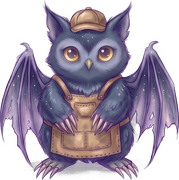
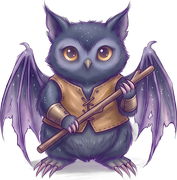
Build 299: Сумрачный совёнок redrawn as a guard (her «Почему одинаковые наряды» -> own line per creature, «Да»): leather vest + practice stick, quilted jacket + round shield, chain mail + horned helmet, crimson guard cloak + spear; front and back replace the old uniform-like outfits; TIER_V cache ve

diff --git a/js/game.js b/js/game.js
@@ -2,9 +2,9 @@
 import {
   OFFLINE_CAP_SEC, MAX_DESKS, MAX_ITEM_LEVEL, MAX_TEACHER_LEVEL, MAX_TIME_LEVEL,
   CLASSES, SPECIES, NAMES, MISSIONS, WORLDS, WORLD, META,
-} from './data.js?v=298';
-import { EMOJI_RE, emojiImage, preloadEmoji, watchEmoji, emojiHtml } from './emoji.js?v=298';
-import { initMinigame } from './minigame.js?v=298';
+} from './data.js?v=299';
+import { EMOJI_RE, emojiImage, preloadEmoji, watchEmoji, emojiHtml } from './emoji.js?v=299';
+import { initMinigame } from './minigame.js?v=299';
 // mini-game «Зельеварка» (match-3, js/minigame.js): a pill on the main screen, its own overlay; the school keeps living under it
 const MG = initMinigame({ state: () => S, earn: (n) => earn(n), save: () => save(), toast: (t) => toast(t), fmt: (n) => fmt(n), emojiHtml, emojiImage,
   audioOut: () => { if (!sfxOn() || document.hidden) return null; const c = audio(); return c && c.state === 'running' ? { c, out: AOUT } : null; },
@@ -15,7 +15,7 @@ const MG = initMinigame({ state: () => S, earn: (n) => earn(n), save: () => save
 const SAVE_KEY = WORLD === 1 ? 'magicschool.save.v2' : 'magicschool.save.v2.w' + WORLD;   // every world keeps its own save
 const saveKeyOf = (w) => (w === 1 ? 'magicschool.save.v2' : 'magicschool.save.v2.w' + w);
 const VERSION = '0.9';
-const BUILD = 298;   // keep equal to the ?v= number in index.html
+const BUILD = 299;   // keep equal to the ?v= number in index.html
 const $ = (s, r = document) => r.querySelector(s);
 const rnd = (a) => a[Math.floor(Math.random() * a.length)];
 
@@ -2178,7 +2178,8 @@ for (const f of STAFF_OTHER) { const im = new Image(); im.src = `assets/staff/${
 const staffSprite = (f) => WORLD <= 2 && STAFF_OTHER.includes(f) && sprites['staff_' + f]?.naturalWidth;
 for (const [k, f] of Object.entries(WORLD === 2 ? STAFF_ART_W2 : STAFF_ART)) { const im = new Image(); im.src = `assets/staff/${f}.png?v=${STAFF_V[f] ? 10 + STAFF_V[f] : 3}`; sprites['staff_' + k] = im; }
 if (WORLD === 1) for (const sp of SPECIES) for (let e = 0; e < 4; e++) for (const v of ['', '_back']) { const im = new Image(); im.onerror = () => {}; im.src = `assets/creatures/${sp}_m${e}${v}.png?v=1`; sprites[sp + '_m' + e + v] = im; }   // element masters (her «вау», 2026-11-22)
-if (WORLD <= 2) for (const sp of SPECIES) for (let t = 1; t < 5; t++) for (const v of ['', '_back']) { const im = new Image(); im.onerror = () => {}; im.src = `assets/creatures/${sp}_t${t}${v}.png?v=1`; sprites[sp + '_t' + t + v] = im; }   // outfit stages (drawn later; missing ones fall back)
+const TIER_V = { owlbat: 2 };   // outfit pictures redrawn under the same names get a new cache version
+if (WORLD <= 2) for (const sp of SPECIES) for (let t = 1; t < 5; t++) for (const v of ['', '_back']) { const im = new Image(); im.onerror = () => {}; im.src = `assets/creatures/${sp}_t${t}${v}.png?v=${TIER_V[sp] || 1}`; sprites[sp + '_t' + t + v] = im; }   // outfit stages (drawn later; missing ones fall back)
 for (const sp of SPECIES) for (const v of ['', '_back']) { const im = new Image(); im.src = `assets/creatures/${sp}${v}.png`; sprites[sp + v] = im; }   // front and back views
 // court poses (build 264, her pick «2»: real poses instead of icons; first test sheet: the moth fox without an outfit)
 const COURT_POSE = { bench: 'sit', tag: 'run', coin: 'coin', read: 'read', sparks: 'wand', birds: 'birds' };

diff --git a/index.html b/index.html
@@ -12,7 +12,7 @@
 <link rel="manifest" href="manifest.webmanifest">
 <link rel="apple-touch-icon" href="icons/icon-180.png?v=2">
 <link rel="icon" href="icons/icon-192.png?v=2">
-<link rel="stylesheet" href="style.css?v=298">
+<link rel="stylesheet" href="style.css?v=299">
 <script>/* iOS home-screen app: innerHeight / 100% / 100dvh are short by the status bar, a strip stayed at the bottom (her screenshots, builds 200-203); use the real screen height */
 (function(){function fit(){if(!(navigator.standalone||matchMedia('(display-mode: standalone)').matches))return;var h=Math.max(window.innerHeight,(Math.abs(window.orientation||0)===90?screen.width:screen.height));var r=document.documentElement;r.style.height=h+'px';if(document.body){document.body.style.height=h+'px';document.body.style.bottom='auto';}}fit();addEventListener('DOMContentLoaded',fit);addEventListener('resize',fit);addEventListener('orientationchange',function(){setTimeout(fit,300);});})();</script>
 </head>
@@ -41,6 +41,6 @@ setTimeout(function(){ if (window.__booted) return; var d=document.createElement
   d.querySelector('button').onclick=function(){ location.reload(); }; document.body.appendChild(d); }, 12000);
 if(!CanvasRenderingContext2D.prototype.roundRect){CanvasRenderingContext2D.prototype.roundRect=function(x,y,w,h){this.rect(x,y,w,h);};}
 </script>
-<script type="module" src="js/game.js?v=298"></script>
+<script type="module" src="js/game.js?v=299"></script>
 </body>
 </html>

diff --git a/js/emoji.js b/js/emoji.js
@@ -1,6 +1,6 @@
 // One emoji look on every device: emoji characters are replaced by bundled Twemoji pictures
 // (CC-BY 4.0, https://github.com/jdecked/twemoji), both in the page (DOM) and on the canvas.
-import { EMOJI_FILES } from './emoji-set.js?v=298';
+import { EMOJI_FILES } from './emoji-set.js?v=299';
 
 export const EMOJI_RE = /\p{Extended_Pictographic}(?:|\p{Extended_Pictographic}?|[\u{1F3FB}-\u{1F3FF}])*/gu;
 
